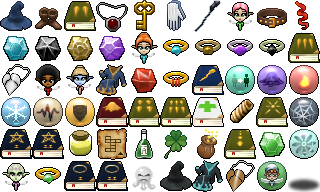
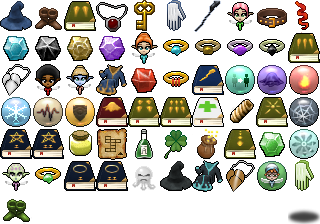
ADD New items

diff --git a/src/PlayerEntity.cpp b/src/PlayerEntity.cpp
@@ -648,7 +648,17 @@ void PlayerEntity::renderPlayer(sf::RenderTarget* app)
   sprite.setColor(savedColor);
 
   // boots
-  if (equip[EQUIP_LEATHER_BOOTS] && playerStatus != playerStatusDead)
+  if (equip[EQUIP_BOOTS_ADVANCED] && playerStatus != playerStatusDead)
+  {
+    sprite.setTexture(*ImageManager::getInstance().getImage(IMAGE_PLAYER_1));
+    if (isMirroring)
+      sprite.setTextureRect(sf::IntRect( (21 + frame) * width + width, spriteDy * height, -width, height));
+    else
+      sprite.setTextureRect(sf::IntRect( (21 + frame) * width, spriteDy * height, width, height));
+    app->draw(sprite);
+    sprite.setTexture(*ImageManager::getInstance().getImage(IMAGE_PLAYER_0));
+  }
+  else if (equip[EQUIP_LEATHER_BOOTS] && playerStatus != playerStatusDead)
   {
     if (isMirroring)
       sprite.setTextureRect(sf::IntRect( (9 + frame) * width + width, spriteDy * height, -width, height));
@@ -685,7 +695,17 @@ void PlayerEntity::renderPlayer(sf::RenderTarget* app)
     app->draw(sprite);
   }
 
-  if (equip[EQUIP_DISPLACEMENT_GLOVES])
+  if (equip[EQUIP_GLOVES_ADVANCED] && playerStatus != playerStatusDead)
+  {
+    sprite.setTexture(*ImageManager::getInstance().getImage(IMAGE_PLAYER_1));
+    if (isMirroring)
+      sprite.setTextureRect(sf::IntRect( (24 + frame) * width + width, spriteDy * height, -width, height));
+    else
+      sprite.setTextureRect(sf::IntRect( (24 + frame) * width, spriteDy * height, width, height));
+    app->draw(sprite);
+    sprite.setTexture(*ImageManager::getInstance().getImage(IMAGE_PLAYER_0));
+  }
+  else if (equip[EQUIP_DISPLACEMENT_GLOVES])
   {
     if (isMirroring)
       sprite.setTextureRect(sf::IntRect( (21 + frame) * width + width, spriteDy * height, -width, height));
@@ -1661,11 +1681,13 @@ void PlayerEntity::computePlayer()
   for (int i = 0; i < NB_RESISTANCES; i++)
     resistance[i] = ResistanceStandard;
 
-  if (equip[EQUIP_DISPLACEMENT_GLOVES]) fireDelayBonus -= 0.10f;
+  if (equip[EQUIP_GLOVES_ADVANCED]) fireDelayBonus -= 0.15f;
+  else if (equip[EQUIP_DISPLACEMENT_GLOVES]) fireDelayBonus -= 0.10f;
   if (equip[EQUIP_HAT_ADVANCED]) fireDelayBonus -= 0.3f;
   else if (equip[EQUIP_MAGICIAN_HAT]) fireDelayBonus -= 0.2f;
   if (equip[EQUIP_LEATHER_BELT]) fireDelayBonus -= 0.15f;
-  if (equip[EQUIP_LEATHER_BOOTS]) creatureSpeedBonus += 0.15f;
+  if (equip[EQUIP_BOOTS_ADVANCED]) creatureSpeedBonus += 0.25f;
+  else if (equip[EQUIP_LEATHER_BOOTS]) creatureSpeedBonus += 0.15f;
   if (equip[EQUIP_BOOK_TRIPLE]) fireDelayBonus += 0.7f;
   else if (equip[EQUIP_BOOK_DUAL]) fireDelayBonus += 0.5f;
 

diff --git a/src/Items.h b/src/Items.h
@@ -134,6 +134,8 @@ enum enumItemType
   ItemRobeAdvanced,
   ItemCritical,
   ItemSpellFairy,
+  ItemGlovesAdvanced,
+  ItemBootsAdvanced,
 
   NUMBER_ITEMS
 };
@@ -440,6 +442,14 @@ const itemStuct items[NUMBER_ITEMS] =
     ItemSpellFairy, "item_spell_fairy", "item_spell_fairy_desc",
     60, true, FamiliarNone, false, false, true, 1, RarityCommon, false, -1, ShotTypeStandard, SpellFairy
   },
+  {
+    ItemGlovesAdvanced, "item_gloves_advanced", "item_gloves_advanced_desc",
+    35, true, FamiliarNone, true, true, true, 2, RarityCommon, false, ItemDisplacementGloves, ShotTypeStandard, SpellNone
+  },
+  {
+    ItemBootsAdvanced, "item_boots_advanced", "item_boots_advanced_desc",
+    35, true, FamiliarNone, true, true, true, 2, RarityCommon, false, ItemLeatherBoots, ShotTypeStandard, SpellNone
+  },
 };
 
 /** Item equipment type enum
@@ -505,6 +515,8 @@ enum item_equip_enum {
   EQUIP_ROBE_ADVANCED,
   EQUIP_CRITICAL,
   EQUIP_SPELL_FAIRY,
+  EQUIP_GLOVES_ADVANCED,
+  EQUIP_BOOTS_ADVANCED,
 
   NUMBER_EQUIP_ITEMS
   };
@@ -517,7 +529,9 @@ const std::vector<item_equip_enum> sortedEquipement =
   EQUIP_MAGICIAN_HAT,
   EQUIP_HAT_ADVANCED,
   EQUIP_LEATHER_BOOTS,
+  EQUIP_BOOTS_ADVANCED,
   EQUIP_DISPLACEMENT_GLOVES,
+  EQUIP_GLOVES_ADVANCED,
   EQUIP_LEATHER_BELT,
   EQUIP_RAGE_AMULET,
   EQUIP_CRITICAL,

diff --git a/src/ChestEntity.cpp b/src/ChestEntity.cpp
@@ -176,7 +176,7 @@ void ChestEntity::open()
     }
 
     // trap !
-    if (game().getLevel() >= 2)
+    if (game().getLevel() >= 2 && !game().getPlayer()->isEquiped(EQUIP_GLOVES_ADVANCED))
     {
       if (rand() % 6 == 0) // trap
       {
@@ -189,7 +189,7 @@ void ChestEntity::open()
         else if (r == 0)
         {
           timer = 1.0f;
-          trap = TrapExplosion;
+          trap = TrapSnakes;
         }
         else
         {

diff --git a/src/ItemEntity.cpp b/src/ItemEntity.cpp
@@ -184,7 +184,7 @@ void ItemEntity::render(sf::RenderTarget* app)
   }
   else
   {
-    sprite.setTextureRect(sf::IntRect(9 * width, 5 * height, width, height));
+    sprite.setTextureRect(sf::IntRect(9 * width, 6 * height, width, height));
     app->draw(sprite);
   }
 
